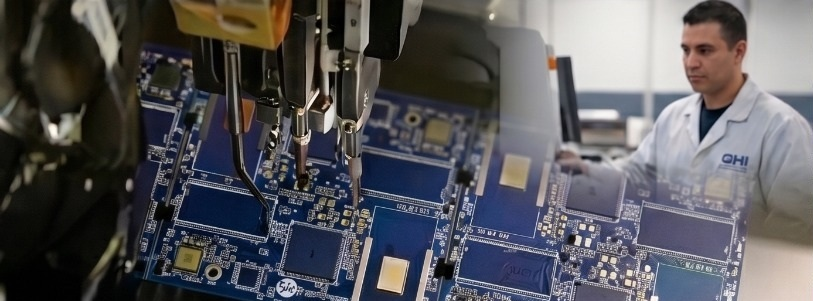
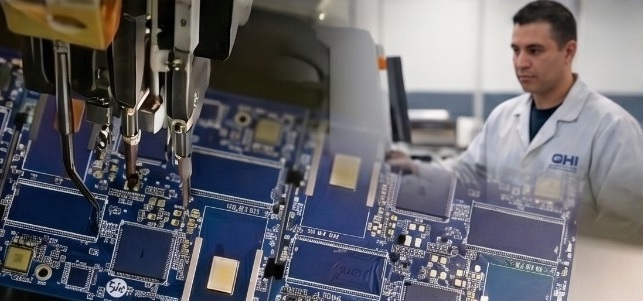
tweak home page

diff --git a/src/css/custom.css b/src/css/custom.css
@@ -841,6 +841,10 @@ a.pillar-card:hover {
   transition: transform 0.4s ease;
 }
 
+.pillar-card--cover .pillar-card__image img {
+  object-fit: cover;
+}
+
 a.pillar-card:hover .pillar-card__image img {
   transform: scale(1.04);
 }